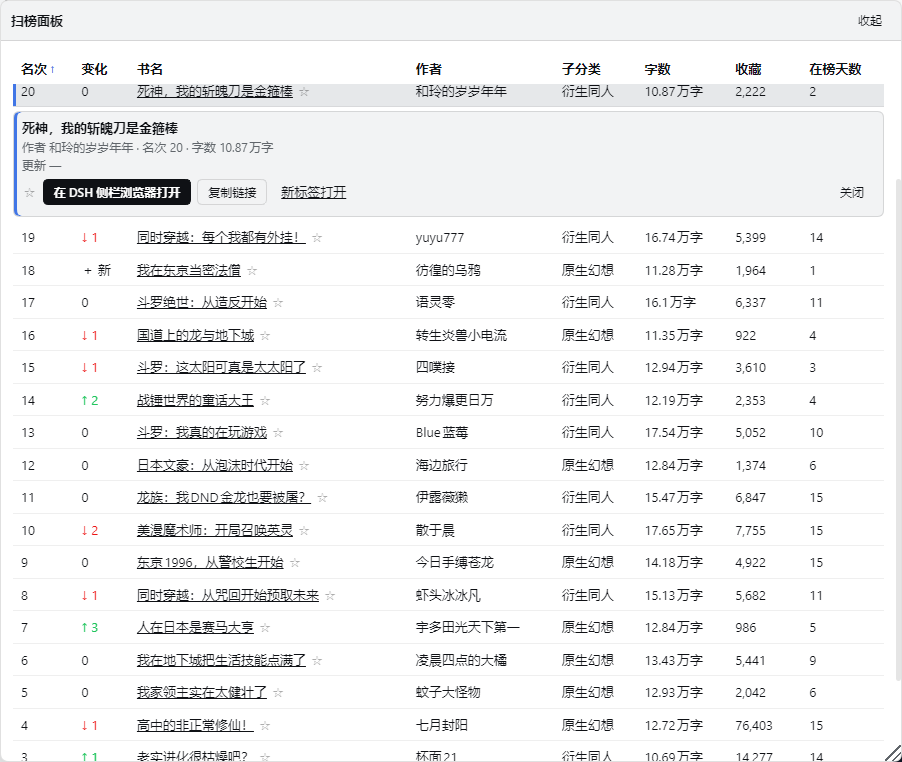
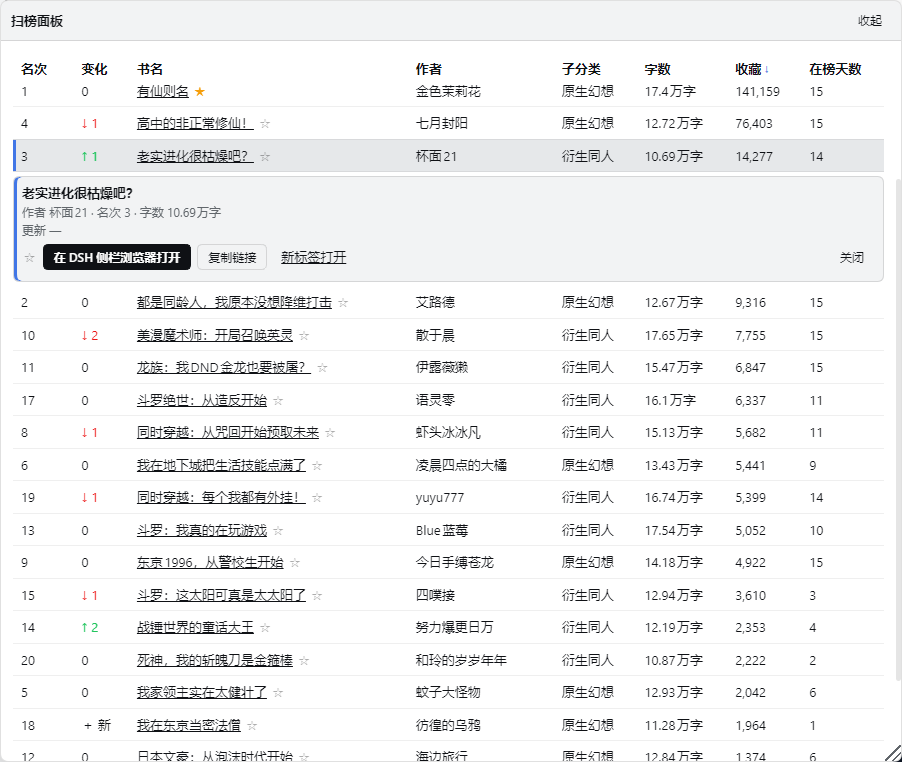
fix(rank-scan): 排序方向统一为宿主倒序并重拍截图
宿主 effSort 对 rank 也用 compareDesc；客户端箭头/aria-sort 一律 descending，并加宿主口径断言。重拍收藏↓的 900 亮/暗截图与真正暗色 480 卡片截图。

diff --git a/client/parts/70-board.js b/client/parts/70-board.js
@@ -6,7 +6,7 @@
      * 第六步（0.5.2）：榜单表头的排序 / 行键盘用的纯函数。
      * 只消费宿主已经给出的 columns / sortOptions，不做客户端排序，也不新增排序方式。
      */
-    const sortDirOf = function (key) { return key === 'rank' ? 'ascending' : 'descending' }
+    const sortDirOf = function () { return 'descending' }
     const sortableCols = function (cols, sortOptions) {
       const values = (sortOptions || []).map(function (o) { return o && o.value }).filter(function (v) { return !!v })
       return (cols || []).filter(function (c) { return c && values.indexOf(c.key) >= 0 }).map(function (c) {
@@ -558,7 +558,7 @@
                 }, dir
                   ? h('button', {
                       className: 'rs-th-sort',
-                      title: active ? '取消按' + c.label + '排序' : '按 ' + c.label + ' 排序',
+                      title: active ? '取消按 ' + c.label + ' 排序' : '按 ' + c.label + ' 排序',
                       onClick: function (e) { e.stopPropagation(); pickSort(nextSort(ss, c.key)) },
                     }, c.label, h('span', { className: 'rs-sort-arrow' + (active ? ' is-on' : ''), 'aria-hidden': 'true' }, dir === 'ascending' ? '↑' : '↓'))
                   : c.label)

diff --git a/docs/handoff-2026-10-28-ui-step6-board-table.md b/docs/handoff-2026-10-28-ui-step6-board-table.md
@@ -10,7 +10,7 @@
 1. 点表头排序
    - 表头列 key 在当前榜 sortOptions 的 value 里时，th 内渲染 button（无边框、继承字体）；名次列对应 rank。
    - 未激活列点击后按该列排序；再点激活列回到 ''。和上方「排序」下拉共用 ss 与 sel.setPref。
-   - 激活列显示方向箭头（rank ↑，其余 ↓），th 带 aria-sort；未激活可排序列 hover/focus 显示淡色箭头。
+   - 激活列显示方向箭头（所有排序列都是 ↓），th 带 aria-sort；未激活可排序列 hover/focus 显示淡色箭头。
    - 排序切换收起详情，并把列表滚回顶部（listRef.scrollIntoView block:start）。
 2. 展开行
    - 表格行与窄屏卡片都有 aria-expanded。
@@ -31,9 +31,10 @@
 ## 口径 / 偏差
 
 - 只展示当前 fitColumns 后仍在表格里的列对应的排序入口；被宽度收起的列不生成表头，但仍可用上方排序下拉（下拉本来就保留给窄屏卡片和无对应列的排序项）。
-- 宿主 sortOptions 没有方向字段；按现有口径固定 rank 升序、其余降序。
+- 宿主 sortOptions 没有方向字段；src/index.ts 的 effSort 对包括 rank 在内的所有排序都用 compareDesc（倒序），客户端一律 descending / ↓，不设 rank 特例。
 - 行的键盘导航用 data-row-idx + 容器 onKeyDown，没有为每行建 ref 数组。
 - 55-board-cell.js 未改；通用排序箭头/focus 样式放在 10-tokens.js，已在改动文件里说明。
+- 测试缝 window.__rankScanBoardTableTest 仍常驻挂载；仓库没有统一的测试环境开关，本步不为此扩大改动。
 
 ## 测试与冒烟
 
@@ -44,9 +45,9 @@
 
 ## 截图
 
-- 900px 亮色（激活排序列 + 展开一行）：docs/screenshots/step6-board-table/step6-board-table-900-light.png
+- 900px 亮色（收藏↓ + 展开一行，展开行在 sticky 表头下方）：docs/screenshots/step6-board-table/step6-board-table-900-light.png
 - 900px 暗色同一状态：docs/screenshots/step6-board-table/step6-board-table-900-dark.png
-- 480px 暗色卡片展开 + focus 框：docs/screenshots/step6-board-table/step6-board-table-480-dark-card.png
+- 480px 真正暗色卡片展开 + 另一张 focus 框：docs/screenshots/step6-board-table/step6-board-table-480-dark-card.png
 
 ## 下一步
 
